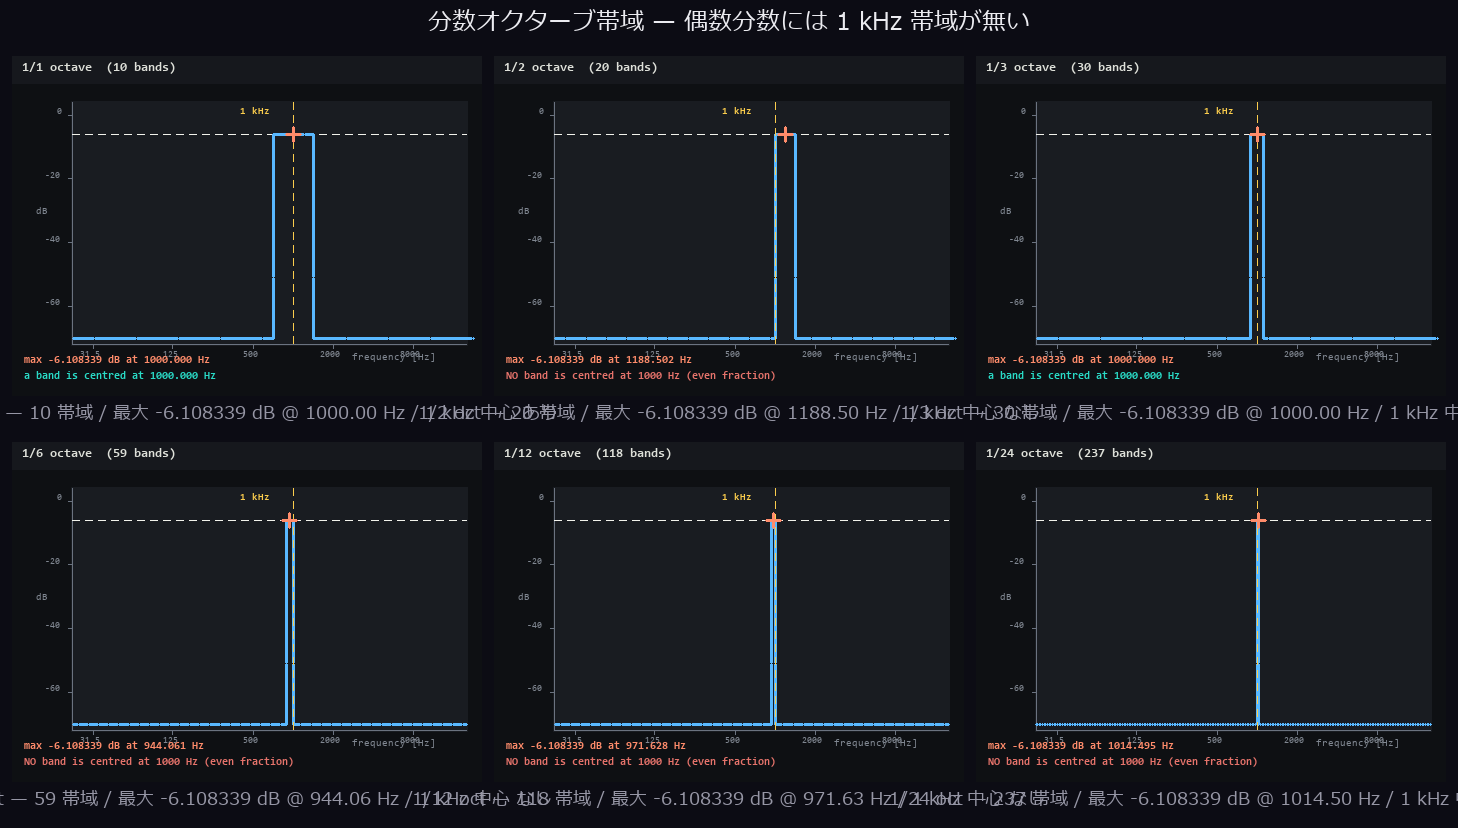
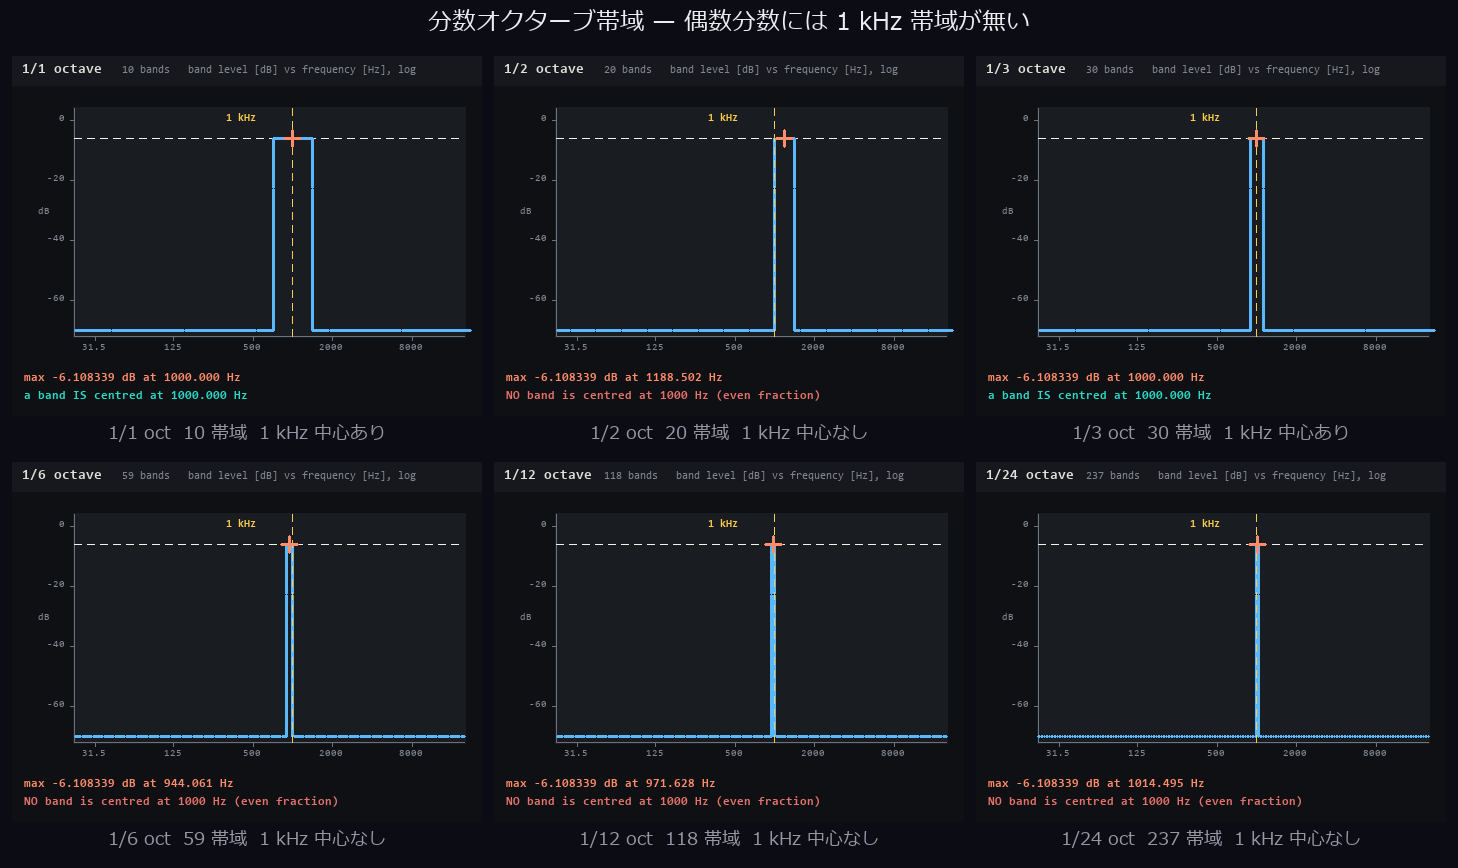
auto: gen_wing3d_gallery.py 編集前 (2026-09-02 02:17)

diff --git a/tools/gen_wing1d_gallery.py b/tools/gen_wing1d_gallery.py
@@ -2635,17 +2635,19 @@ def ex_octave_family(log):
             f"diff from 10log10(A^2/2) {L[k] - closed:+.3e} dB  "
             f"floored bands {n_clamped}")
 
-        PW, PH = 470, 340
+        PW, PH = 470, 360
         fig = Fig(PW, PH)
-        fig.box(0, 0, PW, 28, (0.085, 0.095, 0.115))
-        fig.text(10, 5, f"1/{fr} octave  ({c.size} bands)", C_TEXT, 13, True)
-        ax = Ax(fig, 60, 46, PW - 16, PH - 52, (22.0, 20000.0), (-72.0, 4.0),
+        fig.box(0, 0, PW, 30, (0.085, 0.095, 0.115))
+        fig.text(10, 6, f"1/{fr} octave", C_TEXT, 14, True)
+        fig.text(110, 8, f"{c.size} bands   band level [dB] vs frequency [Hz], log",
+                 C_DIM, 11)
+        ax = Ax(fig, 62, 52, PW - 18, PH - 80, (22.0, 20000.0), (-72.0, 4.0),
                 logx=True)
         ax.panel()
         ink = fig.ink()
         ax.frame(ink)
-        ax.xticks(ink, [31.5, 125, 500, 2000, 8000], "%g", size=9)
-        ax.yticks(ink, [0, -20, -40, -60], "%.0f", size=9)
+        ax.xticks(ink, [31.5, 125, 500, 2000, 8000], "%g", size=10)
+        ax.yticks(ink, [0, -20, -40, -60], "%.0f", size=10)
         fig.stamp(ink, C_AXIS)
         ink = fig.ink()
         ax.hline(ink, closed, width=1, dashed=True)
@@ -2663,21 +2665,18 @@ def ex_octave_family(log):
         ax.vline(ink, 1000.0, width=1, dashed=True)
         fig.stamp(ink, C_B)
         ink = fig.ink()
-        ink.marks([(ax.X(c[k]), ax.Y(L[k]))], size=7, shape="cross", width=2)
+        ink.marks([(ax.X(c[k]), ax.Y(L[k]))], size=8, shape="cross", width=2)
         fig.stamp(ink, C_E)
-        fig.text(ax.X(1000.0) - 52, 50, "1 kHz", C_B, 10, True)
-        fig.text(24, 150, "dB", C_DIM, 10)
-        fig.text(PW - 130, PH - 44, "frequency [Hz]", C_DIM, 10)
-        fig.text(12, PH - 42,
-                 f"max {L[k]:.6f} dB at {c[k]:.3f} Hz",
-                 C_E, 11, True)
+        fig.text(ax.X(1000.0) - 66, 56, "1 kHz", C_B, 11, True)
+        fig.text(26, 150, "dB", C_DIM, 10)
+        fig.text(12, PH - 44, f"max {L[k]:.6f} dB at {c[k]:.3f} Hz", C_E, 12, True)
         fig.text(12, PH - 26,
-                 ("a band is centred at 1000.000 Hz" if exact else
+                 ("a band IS centred at 1000.000 Hz" if exact else
                   "NO band is centred at 1000 Hz (even fraction)"),
-                 C_C if exact else C_WARN, 11, True)
+                 C_C if exact else C_WARN, 12, True)
         panels.append(fig.u8())
-        labels.append(f"1/{fr} oct — {c.size} 帯域 / 最大 {L[k]:.6f} dB @ "
-                      f"{c[k]:.2f} Hz / 1 kHz 中心 {'あり' if exact else 'なし'}")
+        labels.append(f"1/{fr} oct  {c.size} 帯域  1 kHz 中心"
+                      + ("あり" if exact else "なし"))
 
     odd = [r for r in rows if r["exact_1k"]]
     even = [r for r in rows if not r["exact_1k"]]
